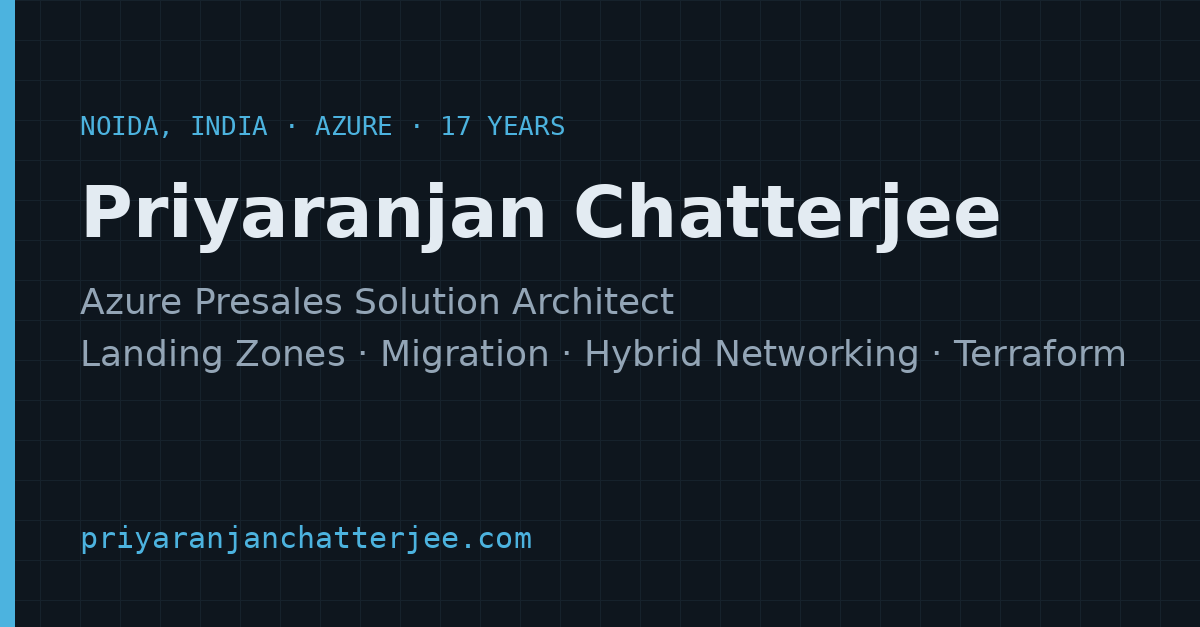
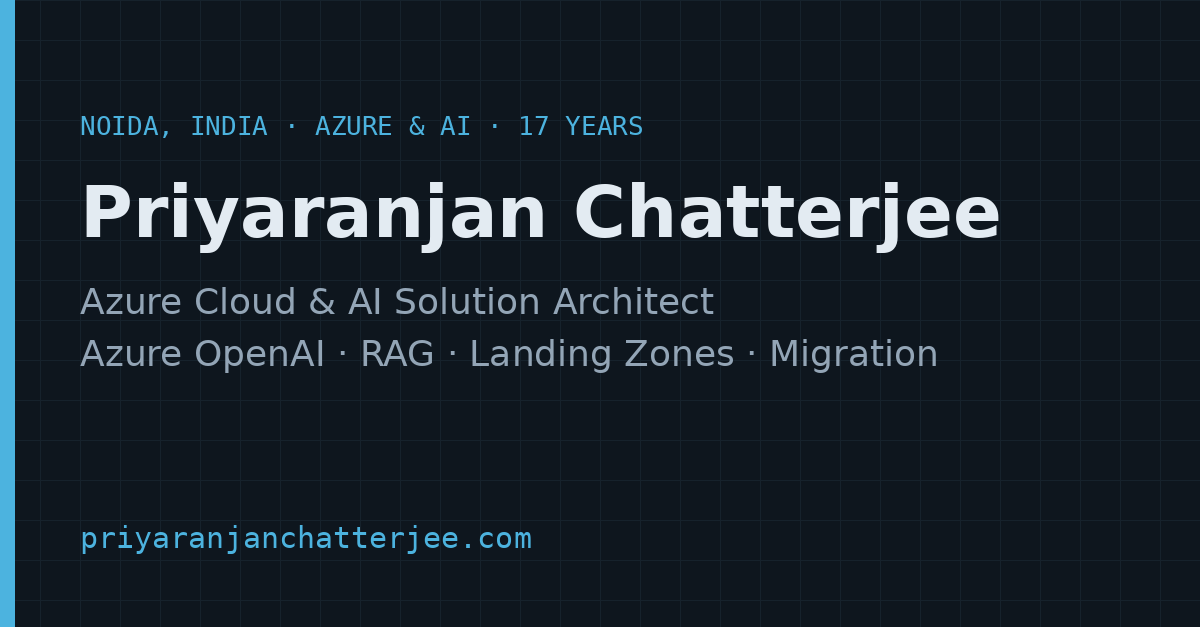
Update portfolio for Azure Cloud & AI Solution Architect profile
Claude-Session: https://claude.ai/code/session_012uhb5HLrTrb9PxUSCjMY6S

Changed region(s): [[0.0617, 0.5455, 0.9558, 0.6061], [0.1542, 0.4545, 0.6167, 0.5152], [0.3392, 0.1818, 0.555, 0.2121]]

diff --git a/index.html b/index.html
@@ -6,15 +6,15 @@
 <link rel="canonical" href="https://priyaranjanchatterjee.com/">
 <meta property="og:type" content="profile">
 <meta property="og:url" content="https://priyaranjanchatterjee.com/">
-<meta property="og:title" content="Priyaranjan Chatterjee – Azure Presales Solution Architect">
-<meta property="og:description" content="17 years in cloud and infrastructure. Azure Landing Zones, migration, hybrid networking, Terraform and enterprise presales.">
+<meta property="og:title" content="Priyaranjan Chatterjee – Azure Cloud &amp; AI Solution Architect">
+<meta property="og:description" content="17 years in cloud and infrastructure. Azure OpenAI and RAG architectures, AI-ready landing zones, migration, hybrid networking and enterprise presales.">
 <meta property="og:image" content="https://priyaranjanchatterjee.com/og-image.png">
 <meta property="og:image:width" content="1200">
 <meta property="og:image:height" content="627">
 <meta name="twitter:card" content="summary_large_image">
 <title>Priyaranjan Chatterjee</title>
 <meta name="claude:viewport-fit-sides" content="cover">
-<meta name="description" content="Priyaranjan Chatterjee — Azure Presales Solution Architect specialising in Azure presales, landing zones, migration and network design.">
+<meta name="description" content="Priyaranjan Chatterjee — Azure Cloud &amp; AI Solution Architect specialising in presales, Azure OpenAI and RAG solutions, landing zones, migration and network design.">
 <link rel="preconnect" href="https://fonts.googleapis.com">
 <link rel="stylesheet" href="https://fonts.googleapis.com/css2?family=Bricolage+Grotesque:opsz,wght@12..96,500;12..96,700&family=Source+Sans+3:wght@400;600&family=JetBrains+Mono:wght@400;500&display=swap">
 <style>
@@ -163,10 +163,10 @@ footer .wrap{display:flex;flex-wrap:wrap;justify-content:space-between;gap:12px;
 <header class="hero" id="top">
   <div class="wrap">
     <div>
-      <div class="kicker">Noida, India · 17 years · Azure</div>
+      <div class="kicker">Noida, India · 17 years · Azure &amp; AI</div>
       <h1>Priyaranjan Chatterjee</h1>
-      <p class="role">Azure Presales Solution Architect · Cloud Transformation</p>
-      <p class="lede">I help enterprises move to Azure with secure, scalable landing zones and migration roadmaps that win the deal and hold up in delivery.</p>
+      <p class="role">Azure Cloud &amp; AI Solution Architect · Presales</p>
+      <p class="lede">I design secure Azure and generative AI solutions, from landing zones and migration roadmaps to Azure OpenAI and RAG architectures, that win the deal and hold up in delivery.</p>
       <div class="ctas">
         <a class="btn primary" href="https://www.linkedin.com/in/priyaranjan-chatterjee-49407615/" target="_blank" rel="noopener">Connect on LinkedIn</a>
         <a class="btn ghost" href="#projects">View my work</a>
@@ -205,8 +205,9 @@ footer .wrap{display:flex;flex-wrap:wrap;justify-content:space-between;gap:12px;
   <div class="wrap">
     <div class="label"><b>01 · about</b>rg-profile</div>
     <div class="content">
-      <h2>Turning business requirements into Azure solutions customers can buy</h2>
-      <p>I'm an Azure Presales Solution Architect with nearly 17 years in cloud architecture and enterprise infrastructure, currently a Cloud Solution Architect at HCL Technologies.</p>
+      <h2>Turning business requirements into Azure and AI solutions customers can buy</h2>
+      <p>I'm an Azure Cloud &amp; AI Solution Architect with nearly 17 years in cloud architecture and enterprise infrastructure, currently a Cloud Solution Architect at HCL Technologies.</p>
+      <p>I design enterprise-ready Azure AI solutions with Azure OpenAI and AI Foundry, including retrieval-augmented generation (RAG) with Azure AI Search, inside AI-ready landing zones that have private networking, identity and governance built in.</p>
       <p>I lead presales engagements end to end: customer discovery, architecture workshops, RFP and RFI responses, estimates, TCO and ROI analysis, and client presentations. My designs cover landing zones, hybrid networking, security, governance, migration and modernisation, built to be secure, scalable and commercially viable.</p>
       <p>Hands-on depth in Terraform, Azure DevOps and Infrastructure as Code lets me validate solutions with proofs of concept and hand them over cleanly to delivery.</p>
       <div class="facts">
@@ -225,11 +226,13 @@ footer .wrap{display:flex;flex-wrap:wrap;justify-content:space-between;gap:12px;
     <div class="content">
       <h2>What I do</h2>
       <div class="services">
+        <div class="svc"><div class="tag">azure ai</div><h3>Azure OpenAI &amp; RAG</h3><p>Azure OpenAI and AI Foundry reference architectures, RAG with Azure AI Search, and GenAI discovery workshops that turn use cases into designs.</p></div>
+        <div class="svc"><div class="tag">ai governance</div><h3>AI-ready landing zones</h3><p>Private endpoints, managed identity, Azure Policy and APIM as an AI gateway for quotas, logging and cost control, aligned with Responsible AI.</p></div>
         <div class="svc"><div class="tag">presales</div><h3>Presales &amp; solutioning</h3><p>RFP and RFI responses, solution proposals, discovery sessions, workshops and executive presentations.</p></div>
         <div class="svc"><div class="tag">governance</div><h3>Azure Landing Zones</h3><p>Enterprise architectures aligned with the Cloud Adoption Framework, with policy, RBAC and standard governance across subscriptions.</p></div>
         <div class="svc"><div class="tag">networking</div><h3>Hybrid networking &amp; security</h3><p>Hub-spoke, Azure Firewall, Private Endpoints and ExpressRoute for enterprise and compliance-sensitive workloads.</p></div>
         <div class="svc"><div class="tag">migration</div><h3>Migration &amp; modernisation</h3><p>Azure Migrate assessments, data center transformation, and migration roadmaps built from real dependency data.</p></div>
-        <div class="svc"><div class="tag">finops</div><h3>Estimation &amp; cost optimisation</h3><p>Solution estimates, Azure pricing, TCO and ROI models, right-sizing and reservations.</p></div>
+        <div class="svc"><div class="tag">finops</div><h3>Estimation &amp; cost optimisation</h3><p>Solution estimates, Azure and AI consumption pricing, TCO and ROI models, right-sizing and reservations.</p></div>
         <div class="svc"><div class="tag">automation</div><h3>Terraform &amp; Azure DevOps</h3><p>Reusable Terraform modules, IaC standards and CI/CD pipelines for infrastructure provisioning.</p></div>
       </div>
     </div>
@@ -243,6 +246,15 @@ footer .wrap{display:flex;flex-wrap:wrap;justify-content:space-between;gap:12px;
       <h2>Selected engagements</h2>
       <p>Anonymised highlights from enterprise work. Client names are confidential.</p>
       <div class="cases">
+        <article class="case" style="grid-column:1/-1">
+          <div class="ctag">azure ai · generative ai</div>
+          <h3>Secure, governed Azure OpenAI and RAG solutions</h3>
+          <dl>
+            <dt>Challenge</dt><dd>Customers wanted GenAI use cases such as document Q&amp;A and internal knowledge assistants without weakening security or losing control of cost.</dd>
+            <dt>Approach</dt><dd>Ran GenAI discovery workshops and designed Azure OpenAI / AI Foundry and Azure AI Search RAG architectures with private endpoints, managed identity, Key Vault and API Management as an AI gateway.</dd>
+            <dt>Outcome</dt><dd>AI workloads brought under existing landing zone security, networking and cost controls, with token-based consumption estimates in each proposal.</dd>
+          </dl>
+        </article>
         <article class="case">
           <div class="ctag">landing zone · governance</div>
           <h3>Standardised governance across 10+ subscriptions</h3>
@@ -285,7 +297,7 @@ footer .wrap{display:flex;flex-wrap:wrap;justify-content:space-between;gap:12px;
       <ol class="flow">
         <li><b>Discover</b><span>Business goals, current estate, constraints</span></li>
         <li><b>Workshop</b><span>Architecture sessions with customer stakeholders</span></li>
-        <li><b>Design</b><span>Target architecture, security and migration approach</span></li>
+        <li><b>Design</b><span>Target architecture, security, migration and AI approach</span></li>
         <li><b>Estimate</b><span>Sizing, Azure pricing, TCO and ROI</span></li>
         <li><b>Propose</b><span>RFP response, solution deck, executive presentation</span></li>
         <li><b>Hand over</b><span>POC validation and clean transition to delivery</span></li>
@@ -300,10 +312,10 @@ footer .wrap{display:flex;flex-wrap:wrap;justify-content:space-between;gap:12px;
     <div class="content">
       <h2>Certifications &amp; education</h2>
       <ul class="certs">
+        <li><code>AI-102</code><span>Azure AI Engineer Associate</span></li>
         <li><code>AZ-305</code><span>Azure Solutions Architect Expert</span></li>
-        <li><code>AZ-700</code><span>Azure Network Engineer</span></li>
-        <li><code>AZ-104</code><span>Azure Administrator</span></li>
-        <li><code>AI-102</code><span>Azure AI Engineer</span></li>
+        <li><code>AZ-700</code><span>Azure Network Engineer Associate</span></li>
+        <li><code>AZ-104</code><span>Azure Administrator Associate</span></li>
         <li><code>Terraform</code><span>HashiCorp Terraform Associate</span></li>
         <li><code>AWS</code><span>AWS Solutions Architect – Associate</span></li>
         <li><code>GCP</code><span>Google Cloud Digital Leader</span></li>
@@ -323,7 +335,7 @@ footer .wrap{display:flex;flex-wrap:wrap;justify-content:space-between;gap:12px;
     <div class="content">
       <h2>Experience</h2>
       <ol class="timeline">
-        <li class="now"><div class="when">Nov 2021 – present · Noida</div><h3>Cloud Solution Architect · HCL Technologies</h3><p>Lead Azure presales for enterprise customers: RFP responses, architecture workshops, landing zones across 10+ subscriptions, Azure Migrate assessments for 100+ servers, and Terraform with Azure DevOps CI/CD that cut provisioning effort by about 60%.</p></li>
+        <li class="now"><div class="when">Nov 2021 – present · Noida</div><h3>Cloud Solution Architect · HCL Technologies</h3><p>Lead Azure cloud and AI presales for enterprise customers: Azure OpenAI and RAG solution designs, GenAI discovery workshops, RFP responses, architecture workshops, landing zones across 10+ subscriptions, Azure Migrate assessments for 100+ servers, and Terraform with Azure DevOps CI/CD that cut provisioning effort by about 60%.</p></li>
         <li><div class="when">Oct 2020 – Nov 2021</div><h3>Senior Solution Architect · Tata Communications</h3><p>Delivered Azure transformation solutions and multi-region landing zones, led presales and proposals, and reduced cloud spend by about 20–30% through TCO and ROI driven optimisation.</p></li>
         <li><div class="when">Jun 2016 – Oct 2020</div><h3>Solution Architect · NTT DATA</h3><p>Led POCs and migrations that moved 50+ workloads from on-premises to Azure, specialising in data center migration, DRaaS and hybrid cloud.</p></li>
         <li><div class="when">Dec 2014 – Jun 2016</div><h3>IT Analyst · Tata Consultancy Services</h3><p>Managed global infrastructure of 4,000+ servers and delivered HA and DR solutions with 99.9% uptime.</p></li>
